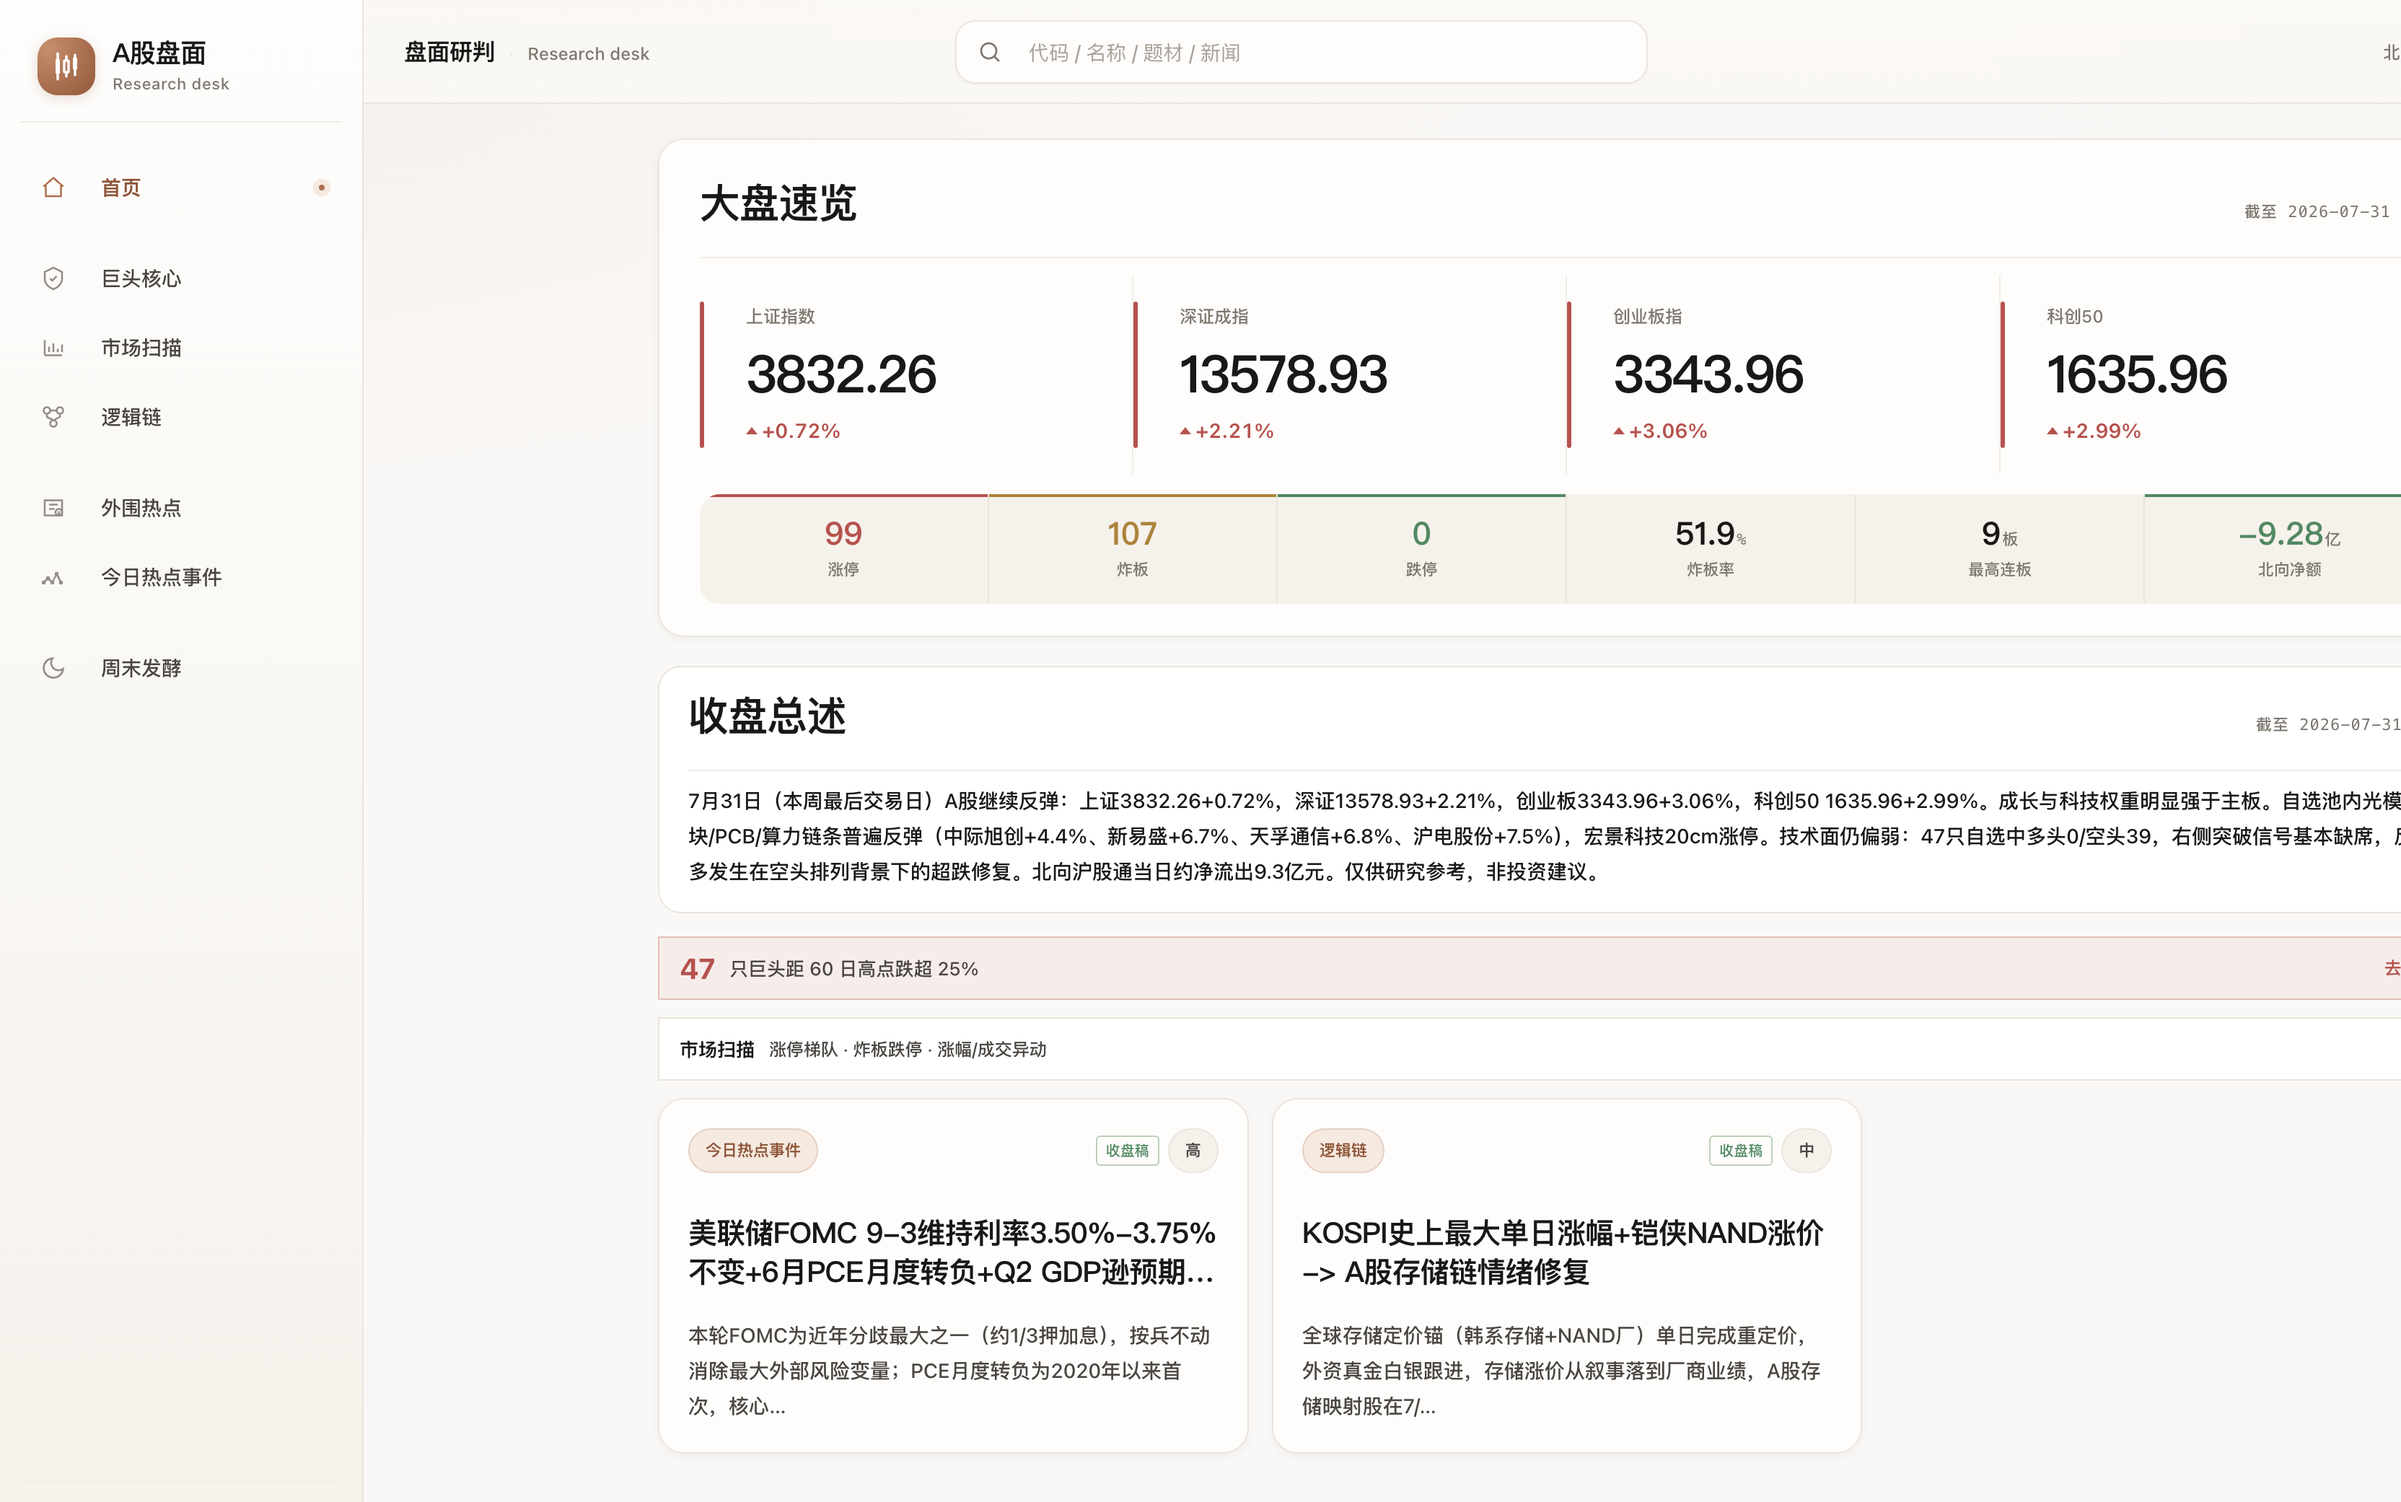
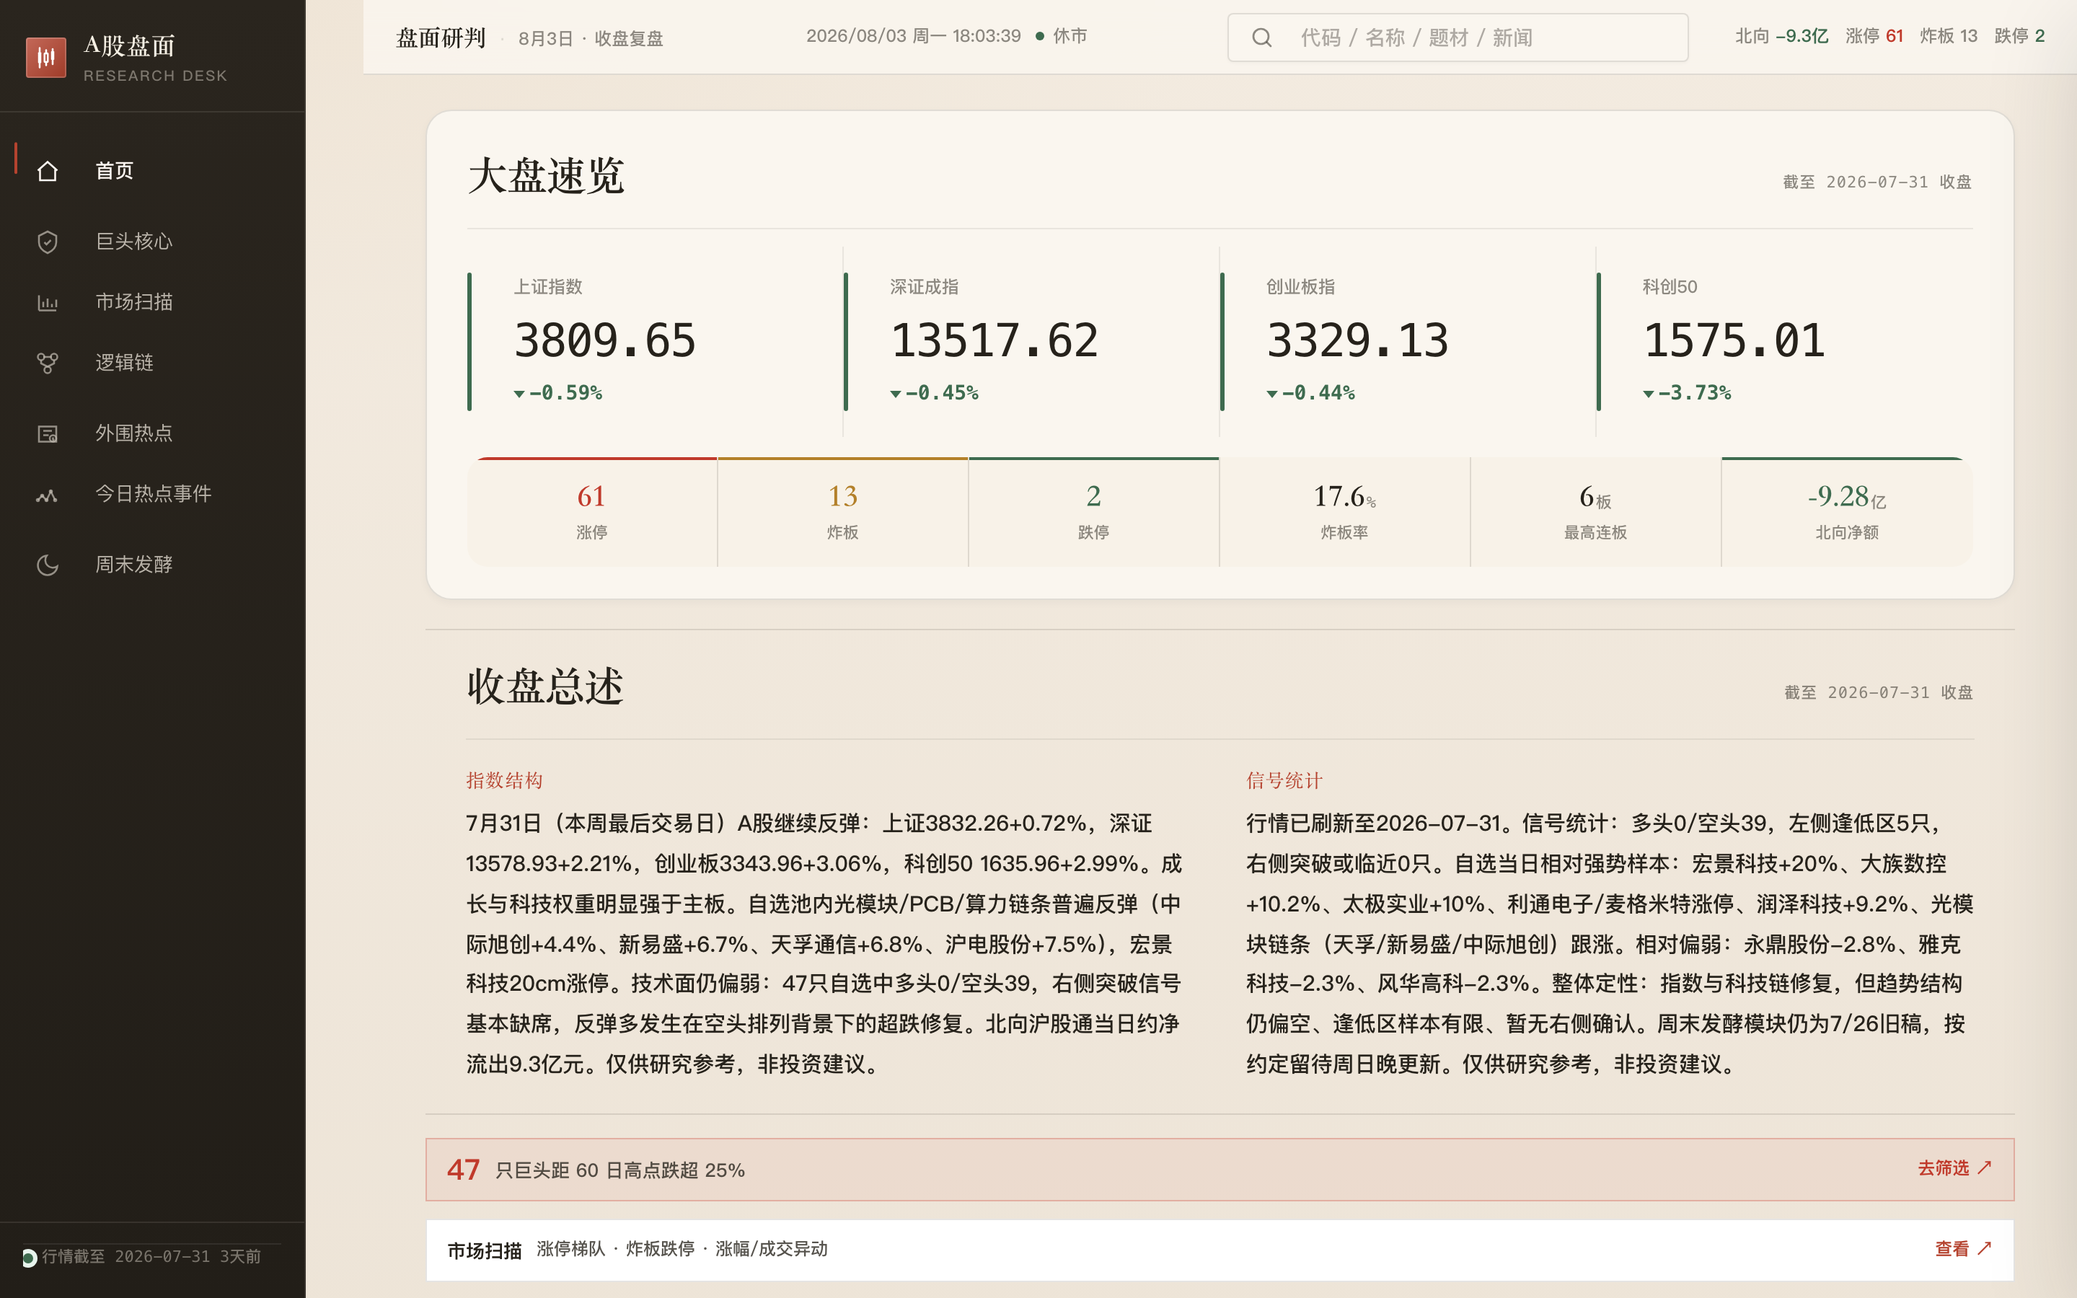
同步仓库推荐页暖色截图与 README，并修版式审查中的 P1 问题。
更新首页/外围热点截图与仓库简介；事件宽屏布局保留 header 语义、避免详情与侧栏重叠；导读注脚剥离与待核实左边线一并收紧。

diff --git a/warm-desk.css b/warm-desk.css
@@ -282,7 +282,7 @@ html, body {
   display: block !important;
   position: relative !important;
   padding: 0 0 0 28px !important;
-  max-width: none !important; /* 取消 68ch 二次限宽 */
+  max-width: min(100%, 88ch) !important; /* 铺满主栏但仍控行长 */
   font-size: 13.5px !important;
   line-height: 1.55 !important;
   color: var(--ink-soft) !important;
@@ -402,7 +402,15 @@ html, body {
   padding: 18px 0 !important;
   margin: 0 !important;
 }
+.ev-row.is-unverified {
+  border-left: 3px solid var(--warn) !important;
+  padding-left: 10px !important;
+}
 .ev-row:first-child { border-top: 0 !important; padding-top: 4px !important; }
+/* 列表式事件行：取消头部分割线，避免与下一行顶边双线 */
+.ev-row-head {
+  border-bottom: 0 !important;
+}
 /* 板块 / 个股 / 详情：跟标题同一左缘，避免阶梯错位 */
 .ev-row > .ev-sectors,
 .ev-row > .ev-stocks-row,
@@ -522,7 +530,15 @@ html, body {
     gap: 22px 24px !important;
   }
 
-  /* 事件：左侧叙事，右侧「重要性/时效」并排，吃掉右侧空白 */
+  /* 仅一块收盘总述时不要空出右列 */
+  .home-regime:not(:has(.home-regime-block + .home-regime-block)) {
+    grid-template-columns: 1fr;
+  }
+  .home-regime:not(:has(.home-regime-block + .home-regime-block)) .home-regime-body {
+    max-width: 72ch;
+  }
+
+  /* 事件：头区占左两列，右侧重要性/时效同排；保留 header 语义（不用 display:contents） */
   .ev-row {
     display: grid !important;
     grid-template-columns: 48px minmax(0, 1.15fr) minmax(280px, 0.85fr);
@@ -531,17 +547,17 @@ html, body {
     align-items: start;
   }
   .ev-row-head {
-    display: contents !important;
+    display: grid !important;
+    grid-template-columns: 48px minmax(0, 1fr);
+    column-gap: 20px;
+    grid-column: 1 / 3;
     border-bottom: 0 !important;
     padding: 0 !important;
   }
   .ev-rank {
-    grid-column: 1;
-    grid-row: 1 / span 4;
     padding-top: 2px;
   }
   .ev-row-main {
-    grid-column: 2;
     min-width: 0;
   }
   .ev-row > .ev-sectors,
@@ -552,25 +568,32 @@ html, body {
   }
   .ev-row > .ev-cols {
     grid-column: 3;
-    grid-row: 1 / span 5;
+    grid-row: 1;
     margin-left: 0 !important;
     max-width: none;
     display: flex !important;
     flex-direction: column !important;
     gap: 12px !important;
-    align-self: stretch;
+    align-self: start;
   }
   .ev-row > .ev-cols .ev-block {
     flex: 0 0 auto;
   }
   .ev-row > .ev-more {
-    grid-column: 2 / -1;
+    grid-column: 2;
     margin-left: 0 !important;
     max-width: none;
   }
   .ev-stocks-row {
     padding-top: 8px !important;
     padding-bottom: 4px !important;
+  }
+}
+
+@media (max-width: 1180px) {
+  /* 覆盖 claude-theme 隐藏 .sb-left .sb-dim，保留会话标签 */
+  .sb-left .sb-dim#sbSessionLabel {
+    display: inline !important;
   }
 }
 
@@ -600,6 +623,8 @@ html, body {
   }
   .ev-row-head {
     display: grid !important;
+    grid-template-columns: 40px minmax(0, 1fr) !important;
+    gap: 12px !important;
   }
   .lc-board {
     grid-template-columns: 1fr !important;

diff --git a/index.html b/index.html
@@ -10,7 +10,7 @@
   <link rel="stylesheet" href="styles.css?v=20" />
   <link rel="stylesheet" href="design-system.css?v=11" />
   <link rel="stylesheet" href="claude-theme.css?v=15" />
-  <link rel="stylesheet" href="warm-desk.css?v=7" />
+  <link rel="stylesheet" href="warm-desk.css?v=8" />
 </head>
 <body class="density-compact">
   <a class="skip-link" href="#mainContent">跳到主要内容</a>

diff --git a/app_ai_modules.js b/app_ai_modules.js
@@ -108,7 +108,7 @@
   function researchDigestHtml(raw, ariaLabel) {
     const text = cleanDisplayText(raw || "").trim()
       .replace(/仅供研究参考[，,、]?非投资建议[。．]?/g, "")
-      .replace(/注：.*$/g, "")
+      .replace(/(?:^|\n)注：[^\n]*$/g, "")
       .trim();
     if (!text) return "";
 

diff --git a/README.md b/README.md
@@ -1,15 +1,15 @@
 # A 股盘面研究看板
 
-**本地优先、无广告的 A 股复盘 / 研究看板** —— 大盘速览、自选信号、市场扫描，以及逻辑链、今日热点、外围热点（每 2 小时）和周末发酵。
+**本地优先、无广告的 A 股复盘 / 研究看板** —— 暖色研究台视觉（深墨侧栏 · 纸感主区），覆盖大盘速览、自选信号、市场扫描，以及逻辑链、今日热点、外围热点（每 2 小时）和周末发酵。
 
 > 数据由脚本测算或 AI 整理，仅供研究参考，不构成投资建议。
 
-[![在线 Demo](https://img.shields.io/badge/在线_Demo-打开看看-0ea5e9?style=flat-square)](https://13103205397a-a11y.github.io/stock-dashboard/)
-[![macOS](https://img.shields.io/badge/macOS-菜单栏简报-111827?style=flat-square&logo=apple)](#mac-app)
+[![在线 Demo](https://img.shields.io/badge/在线_Demo-打开看看-b86a46?style=flat-square)](https://13103205397a-a11y.github.io/stock-dashboard/)
+[![macOS](https://img.shields.io/badge/macOS-菜单栏简报-2a251e?style=flat-square&logo=apple)](#mac-app)
 [![License](https://img.shields.io/badge/license-见仓库-6b7280?style=flat-square)](#)
 
 <p align="center">
-  <img src="docs/screenshots/home.png" alt="首页大盘速览" width="900" />
+  <img src="docs/screenshots/home.png" alt="首页 · 暖色研究台大盘速览" width="900" />
 </p>
 
 <p align="center">
@@ -29,10 +29,10 @@
 
 ## 能看什么
 
-- **首页**：指数、涨停/炸板等盘面摘要 + 收盘总述
+- **首页**：指数、涨停/炸板等盘面摘要 + 收盘总述（宽屏左右分栏）
 - **巨头核心**：自选叙事与技术信号
 - **市场扫描**：涨停梯队、炸板、涨跌异动（只读）
-- **逻辑链 / 今日热点 / 周末发酵**：事件到产业映射与研究文
+- **逻辑链 / 今日热点 / 周末发酵**：事件到产业映射与研究文（导读铺满、卡片分栏）
 - **外围热点**：海外 AI + 宏观/市场硬信息简报（约每 2 小时一期）；Mac 菜单栏可点开最新一期
 
 ## 为什么开源这个
@@ -40,6 +40,7 @@
 - **本地优先**：数据在你机器上跑，不靠商业终端广告墙
 - **研究向**：偏复盘与叙事整理，不是交易下单软件
 - **可静态部署**：一套页面既能本机开，也能挂 GitHub Pages
+- **暖色研究台**：深墨侧栏 + 纸感主区 + 赤陶点缀，编辑式排版，红涨绿跌
 
 ---
 
@@ -150,7 +151,7 @@ python3 scripts/build_site.py _site
 | 文件 | 作用 |
 |---|---|
 | `index.html` / `app.js` / `app_ai_modules.js` | 页面结构、交互和研究模块渲染 |
-| `styles.css` / `design-system.css` / `claude-theme.css` | 样式与设计令牌 |
+| `styles.css` / `design-system.css` / `claude-theme.css` / `warm-desk.css` | 样式层：基础 → 设计系统 → 暖色主题 → 研究台版式覆盖 |
 | `active_modules.json` | 活跃模块、数据契约、新鲜度和 Hermes 发布配置 |
 | `public_files.json` | 公开前端核心资源 |
 | `scripts/build_site.py` | 确定性公开构建与探针清单 |
